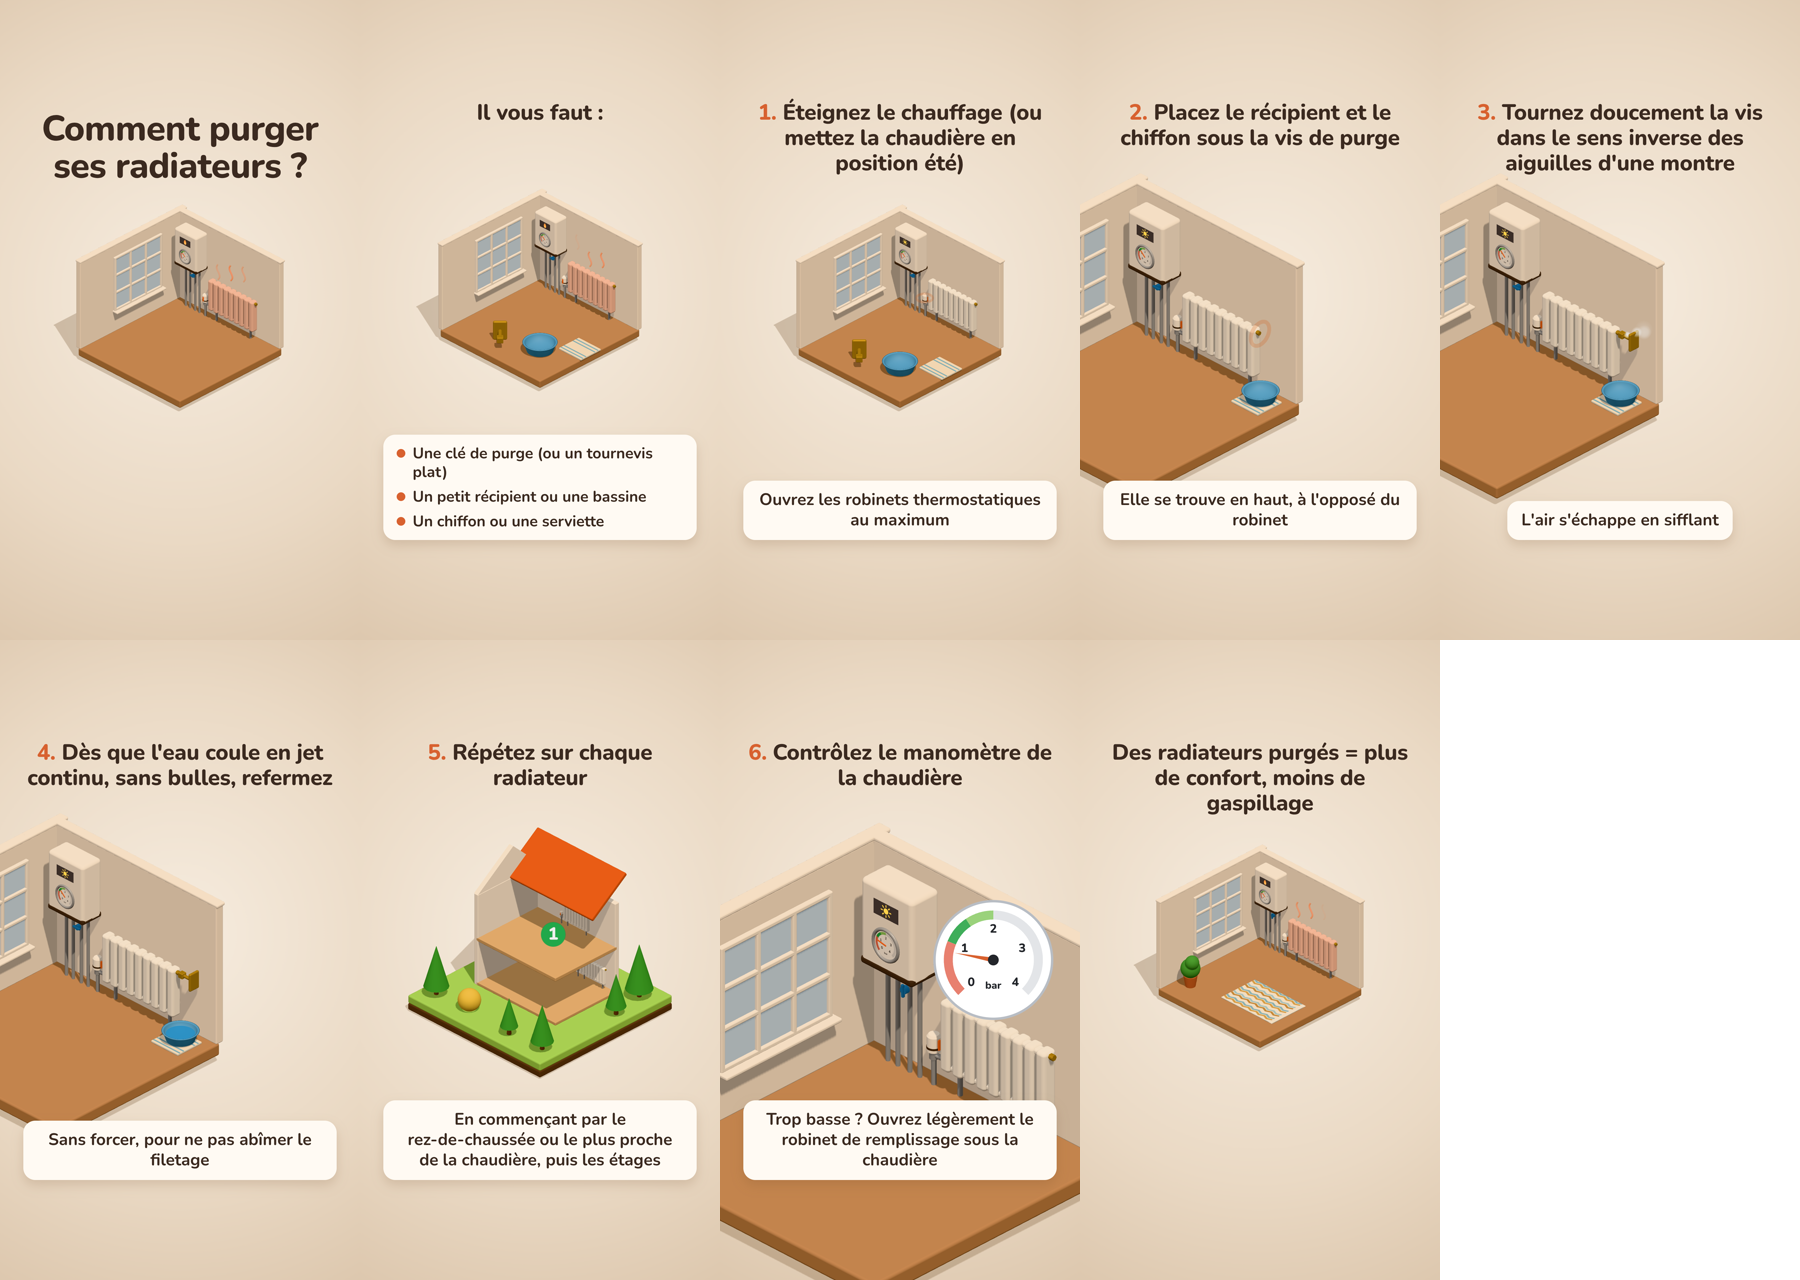
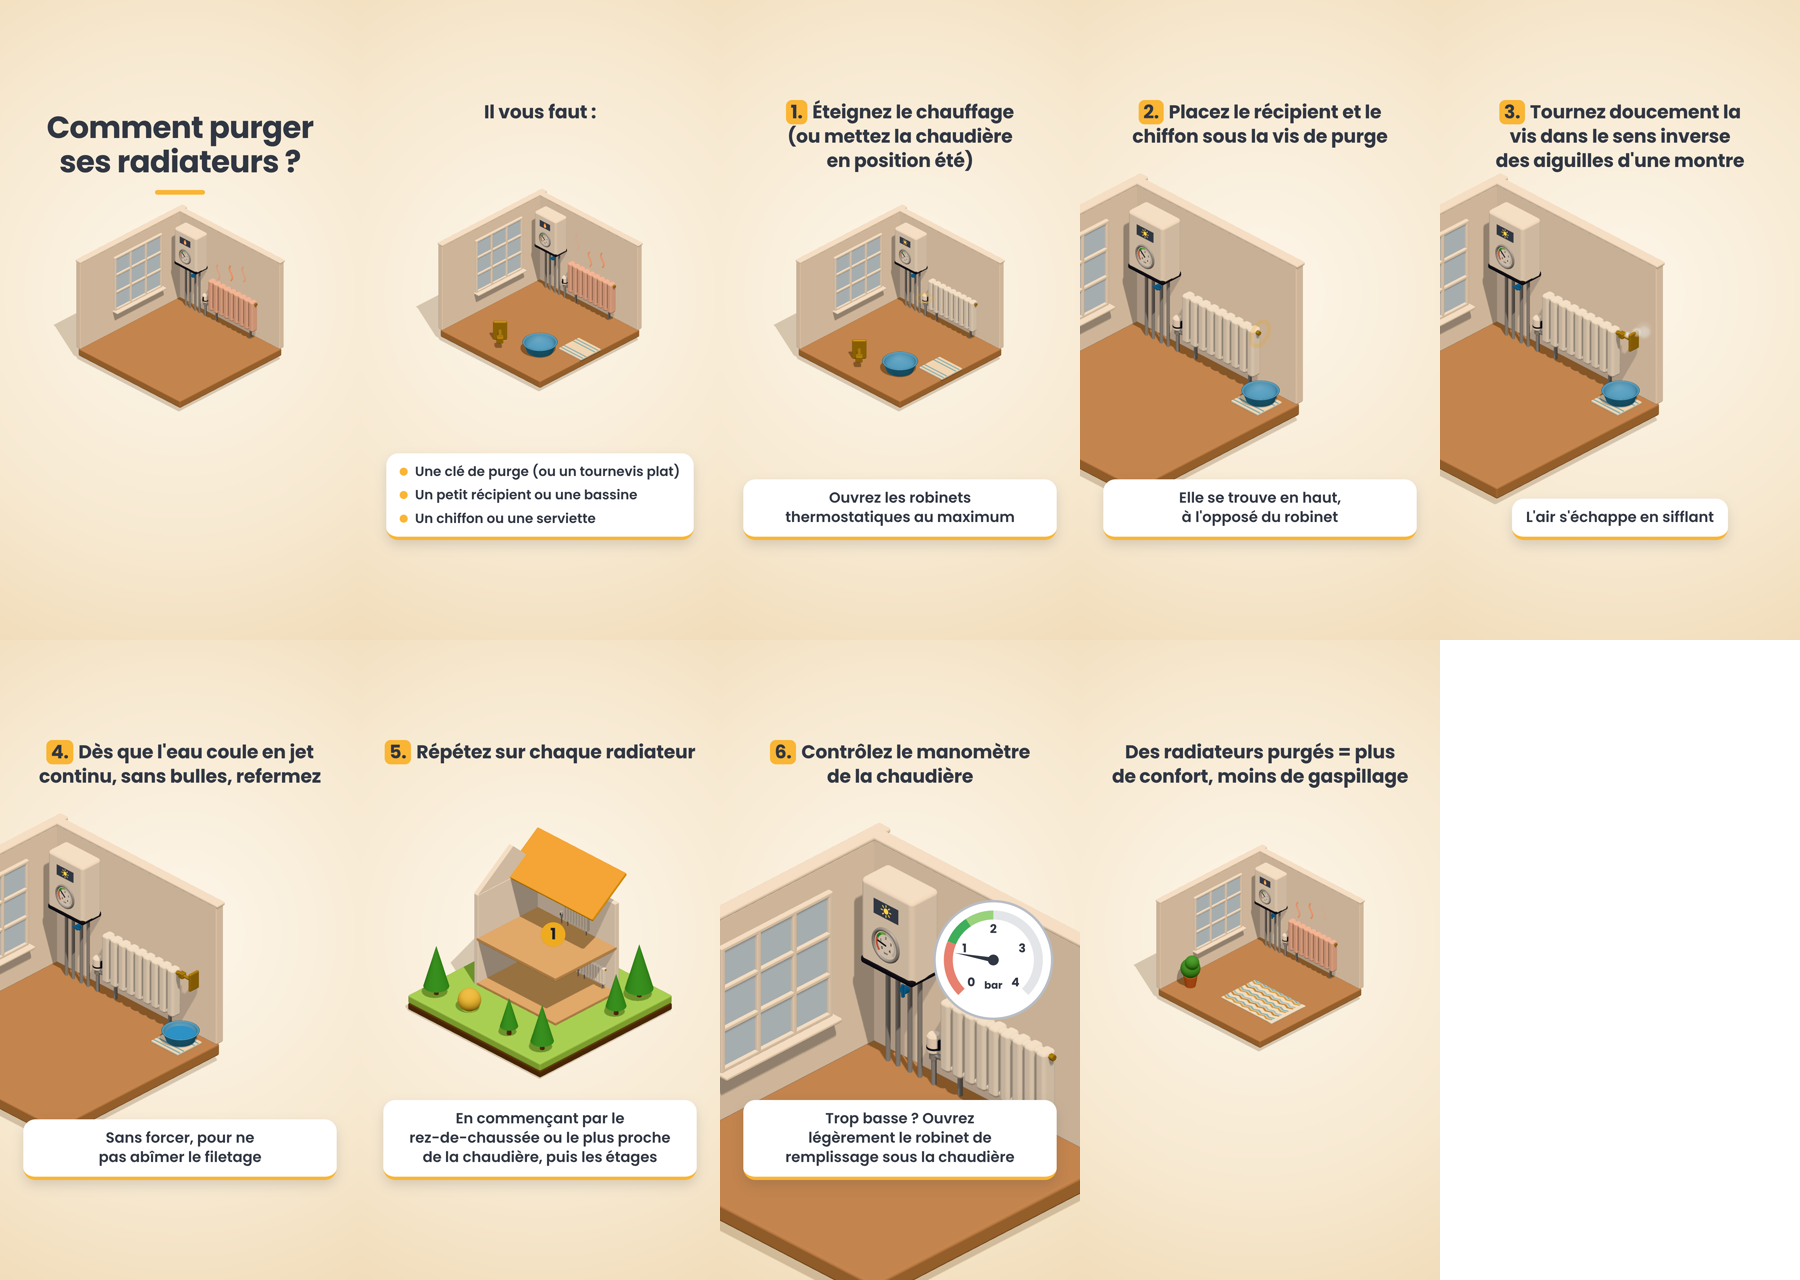
Apply Soltys brand palette and Poppins font, warmer background
Claude-Session: https://claude.ai/code/session_014wm4UfzJL86KhVQLDVdnKe

diff --git a/reel-purge-radiateurs/src/scene.js b/reel-purge-radiateurs/src/scene.js
@@ -5,7 +5,7 @@ import * as THREE from 'three';
 import { RoundedBoxGeometry } from 'three/addons/geometries/RoundedBoxGeometry.js';
 
 // La police sert aussi aux textures dessinées (manomètre, pastilles) : on l'attend avant de construire la scène.
-await Promise.all([document.fonts.load('800 64px Nunito'), document.fonts.load('700 50px Nunito')]);
+await Promise.all([document.fonts.load('700 64px Poppins'), document.fonts.load('600 50px Poppins')]);
 
 const R = window.REEL, S = R.scenes;
 const W = 1080, H = 1920;
@@ -70,11 +70,11 @@ scene.add(ground);
 const mat = (c, o = {}) => new THREE.MeshStandardMaterial({ color: c, roughness: .85, metalness: 0, ...o });
 const C = {
   wall: mat(0xfaf2e8), wallTop: mat(0xfdf8f1), floor: mat(0xb88b66), glass: mat(0xb9cddd, { roughness: .2, emissive: 0x9fb6c9, emissiveIntensity: .25 }),
-  frame: mat(0xfaf5ee), white: mat(0xfaf6f0), steel: mat(0xb8bdc4, { roughness: .45, metalness: .35 }), dark: mat(0x4a3a32),
+  frame: mat(0xfaf5ee), white: mat(0xfaf6f0), steel: mat(0xb8bdc4, { roughness: .45, metalness: .35 }), dark: mat(0x303642),
   brass: mat(0xcaa03a, { roughness: .4, metalness: .45 }), bowl: mat(0x5aa2d6, { side: THREE.DoubleSide, roughness: .6 }),
   water: mat(0x3d97df, { roughness: .15, transparent: true, opacity: .88 }), crate: mat(0xdcc7a8), crateDk: mat(0xc6ad8a),
-  grass: mat(0x9fd36a), grassDk: mat(0x8cc45a), dirt: mat(0x5b3f2c), roof: mat(0xd8612f), wood: mat(0xd2ad80), tree: mat(0x47a447),
-  trunk: mat(0x7a5236), bush: mat(0xe2c35a), pot: mat(0xc96f4a), leaf: mat(0x4f9e4b), red: mat(0xd8612f, { emissive: 0xd8612f, emissiveIntensity: .35 }),
+  grass: mat(0x9fd36a), grassDk: mat(0x8cc45a), dirt: mat(0x5b3f2c), roof: mat(0xf9b533), wood: mat(0xd2ad80), tree: mat(0x47a447),
+  trunk: mat(0x7a5236), bush: mat(0xe2c35a), pot: mat(0xc96f4a), leaf: mat(0x4f9e4b), red: mat(0x303642),
   blue: mat(0x3d8fd6),
 };
 function box(w, h, d, r, m, x = 0, y = 0, z = 0) {
@@ -169,12 +169,12 @@ function hot(t) {
 
 // chaudière murale : écran (flamme / soleil = position été), manomètre, robinet de remplissage dessous
 const flameTex = canvasTex(256, 128, (g, w, h) => {
-  g.fillStyle = '#3a2d27'; g.fillRect(0, 0, w, h);
+  g.fillStyle = '#303642'; g.fillRect(0, 0, w, h);
   g.fillStyle = '#ff9a3c'; g.beginPath(); g.moveTo(128, 18); g.bezierCurveTo(170, 60, 160, 110, 128, 112); g.bezierCurveTo(96, 110, 86, 60, 128, 18); g.fill();
   g.fillStyle = '#ffd36a'; g.beginPath(); g.moveTo(128, 60); g.bezierCurveTo(146, 82, 142, 106, 128, 106); g.bezierCurveTo(114, 106, 110, 82, 128, 60); g.fill();
 });
 const sunTex = canvasTex(256, 128, (g, w, h) => {
-  g.fillStyle = '#3a2d27'; g.fillRect(0, 0, w, h);
+  g.fillStyle = '#303642'; g.fillRect(0, 0, w, h);
   g.strokeStyle = g.fillStyle = '#ffd24a'; g.lineWidth = 9; g.lineCap = 'round';
   g.beginPath(); g.arc(128, 64, 24, 0, Math.PI * 2); g.fill();
   for (let i = 0; i < 8; i++) { const a = i * Math.PI / 4; g.beginPath(); g.moveTo(128 + Math.cos(a) * 36, 64 + Math.sin(a) * 36); g.lineTo(128 + Math.cos(a) * 50, 64 + Math.sin(a) * 50); g.stroke(); }
@@ -185,9 +185,9 @@ const gaugeTex = canvasTex(512, 512, (g, w) => {
   const ang = v => (135 + v / 4 * 270) * Math.PI / 180;   // 0 bar en bas à gauche, 4 bars en bas à droite (sens horaire)
   const arc = (a, b, col) => { g.strokeStyle = col; g.lineWidth = 46; g.beginPath(); g.arc(c, c, c - 60, ang(a), ang(b)); g.stroke(); };
   arc(0, 1, '#e8806f'); arc(1, 1.5, '#3fae5a'); arc(1.5, 2, '#9ad27b'); arc(2, 4, '#e3e5e8');
-  g.fillStyle = '#23262b'; g.font = '800 64px Nunito, sans-serif'; g.textAlign = 'center'; g.textBaseline = 'middle';
+  g.fillStyle = '#303642'; g.font = '700 64px Poppins, sans-serif'; g.textAlign = 'center'; g.textBaseline = 'middle';
   for (let v = 0; v <= 4; v++) g.fillText(String(v), c + Math.cos(ang(v)) * (c - 140), c + Math.sin(ang(v)) * (c - 140));
-  g.font = '800 46px Nunito, sans-serif'; g.fillText('bar', c, c + 150);
+  g.font = '700 46px Poppins, sans-serif'; g.fillText('bar', c, c + 150);
 });
 const boiler = grp(-1.85, 3.0, -2.5);
 {
@@ -249,7 +249,7 @@ const towelA = actor(towel, [[S[1] + 3.6, ITEMS_END]]);
 
 // flèche « sens inverse des aiguilles d'une montre », vue face à la vis
 const ccwTex = canvasTex(256, 256, (g, w) => {
-  const c = w / 2; g.strokeStyle = '#d8612f'; g.fillStyle = '#d8612f'; g.lineWidth = 22; g.lineCap = 'round';
+  const c = w / 2; g.strokeStyle = '#f2a516'; g.fillStyle = '#f2a516'; g.lineWidth = 22; g.lineCap = 'round';
   g.beginPath(); g.arc(c, c, 86, -Math.PI * .15, Math.PI * 1.25); g.stroke();
   const a = -Math.PI * .15, x = c + Math.cos(a) * 86, y = c + Math.sin(a) * 86;
   g.beginPath(); g.moveTo(x + 34, y + 8); g.lineTo(x - 26, y - 4); g.lineTo(x + 6, y - 46); g.closePath(); g.fill();
@@ -258,7 +258,7 @@ const ccw = new THREE.Sprite(new THREE.SpriteMaterial({ map: ccwTex, transparent
 scene.add(ccw);
 
 // repère pulsant (vis de purge, robinet)
-const ring = new THREE.Mesh(new THREE.TorusGeometry(.2, .03, 12, 48), new THREE.MeshBasicMaterial({ color: 0xd8612f, transparent: true, depthTest: false }));
+const ring = new THREE.Mesh(new THREE.TorusGeometry(.2, .03, 12, 48), new THREE.MeshBasicMaterial({ color: 0xf2a516, transparent: true, depthTest: false }));
 ring.renderOrder = 5; scene.add(ring);
 
 // air et eau
@@ -297,8 +297,8 @@ for (const [x, z, s] of [[2.3, -2.2, 1.1], [2.55, -.9, .8], [2.4, 2.3, .9], [-2.
 }
 actor(grp(-1.0, 0, 2.2, ball(.38, C.bush, 0, .34, 0)), HOUSE, .6);
 const badgeTex = n => canvasTex(160, 160, (g, w) => {
-  g.fillStyle = '#3fae5a'; g.beginPath(); g.arc(80, 80, 74, 0, Math.PI * 2); g.fill();
-  g.fillStyle = '#fff'; g.font = '800 104px Nunito, sans-serif'; g.textAlign = 'center'; g.textBaseline = 'middle'; g.fillText(String(n), 80, 86);
+  g.fillStyle = '#f9b533'; g.beginPath(); g.arc(80, 80, 74, 0, Math.PI * 2); g.fill();
+  g.fillStyle = '#303642'; g.font = '700 96px Poppins, sans-serif'; g.textAlign = 'center'; g.textBaseline = 'middle'; g.fillText(String(n), 80, 86);
 });
 const badges = hrads.map((h, i) => {
   const s = new THREE.Sprite(new THREE.SpriteMaterial({ map: badgeTex(i + 1), transparent: true, depthTest: false }));
@@ -349,9 +349,9 @@ const gaugeEl = document.getElementById('gauge');
   const arc = (a, b, col) => `<path d="M ${pt(a, r)} A ${r} ${r} 0 ${(b - a) / 4 * 270 > 180 ? 1 : 0} 1 ${pt(b, r)}" stroke="${col}" stroke-width="30" fill="none"/>`;
   let s = `<circle cx="200" cy="200" r="196" fill="#fff" stroke="#b8bdc4" stroke-width="8"/>`;
   s += arc(0, 1, '#e8806f') + arc(1, 1.5, '#3fae5a') + arc(1.5, 2, '#9ad27b') + arc(2, 4, '#e3e5e8');
-  for (let v = 0; v <= 4; v++) s += `<text x="${pt(v, 104).split(' ')[0]}" y="${pt(v, 104).split(' ')[1]}" font-family="Nunito" font-weight="800" font-size="40" text-anchor="middle" dominant-baseline="central" fill="#23262b">${v}</text>`;
-  s += `<text x="200" y="296" font-family="Nunito" font-weight="800" font-size="34" text-anchor="middle" fill="#23262b">bar</text>`;
-  s += `<g id="gneedle"><path d="M 192 200 L 200 70 L 208 200 Z" fill="#d8612f"/></g><circle cx="200" cy="200" r="18" fill="#23262b"/>`;
+  for (let v = 0; v <= 4; v++) s += `<text x="${pt(v, 104).split(' ')[0]}" y="${pt(v, 104).split(' ')[1]}" font-family="Poppins" font-weight="700" font-size="40" text-anchor="middle" dominant-baseline="central" fill="#303642">${v}</text>`;
+  s += `<text x="200" y="296" font-family="Poppins" font-weight="700" font-size="34" text-anchor="middle" fill="#303642">bar</text>`;
+  s += `<g id="gneedle"><path d="M 192 200 L 200 70 L 208 200 Z" fill="#303642"/></g><circle cx="200" cy="200" r="18" fill="#303642"/>`;
   gaugeEl.innerHTML = s;
 }
 const gneedle = gaugeEl.querySelector('#gneedle');
@@ -508,7 +508,7 @@ window.renderAt = renderAt;
 // Couverture : une image du film, sans les textes du film, avec le titre de couverture.
 window.renderCover = function () {
   // cadrage propre à la couverture : la pièce entière, sous le titre
-  renderAt(R.couverture.instant, { noText: true, noOverlay: true, cam: { zoom: 1.12, tx: .5, ty: 3.3, tz: .5 } });
+  renderAt(R.couverture.instant, { noText: true, noOverlay: true, cam: { zoom: 1.1, tx: .5, ty: 4.0, tz: .5 } });
   const cv = document.getElementById('cover');
   cv.style.display = 'block';
   cv.querySelector('.ct').textContent = R.couverture.texte;

diff --git a/reel-purge-radiateurs/index.html b/reel-purge-radiateurs/index.html
@@ -5,35 +5,38 @@
     <meta name="viewport" content="width=1080, height=1920" />
     <title>Purger ses radiateurs</title>
     <style>
-      @font-face { font-family: "Nunito"; font-weight: 700; src: url("assets/fonts/nunito-700.woff2") format("woff2"); font-display: block; }
-      @font-face { font-family: "Nunito"; font-weight: 800; src: url("assets/fonts/nunito-800.woff2") format("woff2"); font-display: block; }
+      /* Charte Soltys : Poppins, jaune #F9B533, gris #545454, bleu nuit #303642 */
+      @font-face { font-family: "Poppins"; font-weight: 600; src: url("assets/fonts/poppins-600.woff2") format("woff2"); font-display: block; }
+      @font-face { font-family: "Poppins"; font-weight: 700; src: url("assets/fonts/poppins-700.woff2") format("woff2"); font-display: block; }
       * { margin: 0; padding: 0; box-sizing: border-box; }
-      html, body { width: 1080px; height: 1920px; overflow: hidden; background: #e2d3c0; }
+      html, body { width: 1080px; height: 1920px; overflow: hidden; background: #f5e6cc; }
       #root {
         position: relative; width: 1080px; height: 1920px; overflow: hidden;
-        background: radial-gradient(ellipse 120% 70% at 50% 46%, #f6ecdf 0%, #ead9c4 55%, #d8c1a6 100%);
-        font-family: "Nunito", sans-serif; color: #3b2a20;
+        background: radial-gradient(ellipse 120% 70% at 50% 46%, #fdf6ea 0%, #f7e9d1 55%, #efd8b2 100%);
+        font-family: "Poppins", sans-serif; color: #303642;
       }
       #gl { position: absolute; inset: 0; width: 1080px; height: 1920px; display: block; }
       #txt { position: absolute; inset: 0; pointer-events: none; }
       .blk { position: absolute; left: 70px; right: 70px; text-align: center; display: none; text-wrap: balance; }
       .w { display: inline-block; white-space: pre; will-change: transform, opacity; }
-      .num { color: #d8612f; }
-      .titre { top: 330px; font-size: 106px; font-weight: 800; line-height: 1.06; letter-spacing: -1.5px; }
-      .haut { top: 300px; font-size: 66px; font-weight: 800; line-height: 1.15; letter-spacing: -0.5px; }
+      .num { background: #f9b533; color: #303642; border-radius: 18px; padding: 0 14px; margin-right: 4px; }
+      .titre { top: 330px; font-size: 92px; font-weight: 700; line-height: 1.12; letter-spacing: -1.5px; }
+      .titre::after, #cover .ct::after { content: ""; display: block; width: 150px; height: 14px; border-radius: 7px; background: #f9b533; margin: 34px auto 0; }
+      .haut { top: 300px; font-size: 56px; font-weight: 700; line-height: 1.3; letter-spacing: -0.5px; }
       .bas, .liste { bottom: 300px; }
       .card {
-        display: inline-block; background: #fffaf3; border-radius: 36px; padding: 26px 42px 30px;
-        box-shadow: 0 16px 34px rgba(110, 70, 40, 0.18); font-size: 50px; font-weight: 700; line-height: 1.22;
+        display: inline-block; background: #ffffff; border-radius: 36px; padding: 26px 42px 30px; color: #303642;
+        border-bottom: 10px solid #f9b533;
+        box-shadow: 0 16px 34px rgba(48, 54, 66, 0.16); font-size: 44px; font-weight: 600; line-height: 1.32;
         transform-origin: 50% 100%;
       }
-      .liste .card { text-align: left; font-size: 46px; padding: 28px 40px; }
+      .liste .card { text-align: left; font-size: 40px; padding: 28px 40px; }
       .row { display: flex; align-items: flex-start; gap: 22px; }
       .row + .row { margin-top: 18px; }
-      .dot { flex: 0 0 auto; width: 26px; height: 26px; border-radius: 50%; background: #d8612f; margin-top: 15px; }
+      .dot { flex: 0 0 auto; width: 24px; height: 24px; border-radius: 50%; background: #f9b533; margin-top: 15px; }
       /* couverture */
       #cover { position: absolute; inset: 0; display: none; }
-      #cover .ct { text-wrap: balance; position: absolute; top: 330px; left: 60px; right: 60px; text-align: center; font-size: 118px; font-weight: 800; line-height: 1.04; letter-spacing: -2px; }
+      #cover .ct { text-wrap: balance; position: absolute; top: 330px; left: 60px; right: 60px; text-align: center; font-size: 104px; font-weight: 700; line-height: 1.1; letter-spacing: -2px; }
       /* jauge agrandie (étape 6) */
       #gauge { position: absolute; left: 0; top: 0; width: 400px; height: 400px; display: none; transform-origin: 50% 50%; }
     </style>

diff --git a/reel-purge-radiateurs/README.md b/reel-purge-radiateurs/README.md
@@ -1,6 +1,6 @@
 # Reel « Comment purger ses radiateurs ? »
 
-Vidéo verticale 1080×1920, 30 i/s, 59,5 s, H.264 avec piste son vide. Version neutre : sans marque ni logo.
+Vidéo verticale 1080×1920, 30 i/s, 59,5 s, H.264 avec piste son vide. Aux couleurs et à la police de la charte Soltys, sans logo.
 La fin garde le bas de l'écran vide pour y poser un logo.
 
 ## Fichiers produits
@@ -26,15 +26,15 @@ Prérequis : Node 22+, ffmpeg et Playwright avec Chromium (déjà installés dan
 
 ```bash
 cd reel-purge-radiateurs
-npm install && npm run setup    # une seule fois : copie three.js et la police Nunito dans assets/
+npm install && npm run setup    # une seule fois : copie three.js et la police Poppins dans assets/
 npm run preview                 # une image par scène → renders/apercu/
 npm run cover                   # la couverture → renders/couverture.png
 npm run render                  # la vidéo → renders/purger-radiateurs.mp4 (quelques minutes)
 node scripts/render.mjs --at 27.2   # une seule image à 27,2 s → renders/image-27.2.png
 ```
 
-La page `index.html` est aussi une composition HyperFrames : elle répond à l'événement `hf-seek`. Elle peut donc
-être rendue avec `npx --yes hyperframes@0.8.71 render --fps 30 -o renders/purger-radiateurs.mp4` depuis ce dossier.
+La page `index.html` suit aussi le format d'une composition HyperFrames (attributs `data-*`, événement `hf-seek`).
+Le rendu livré a été fait avec `scripts/render.mjs` ; le rendu par HyperFrames n'a pas été testé.
 
 ## Ajouter le logo
 
@@ -45,4 +45,6 @@ dans votre logiciel de montage, ou ajoutez un `<img>` dans `index.html`.
 
 Il s'inspire des deux vidéos de référence : maquettes 3D isométriques mates qui se construisent pièce par pièce, avec
 un rebond, des ombres douces et un fond uni. Chaque décor se replie en cube puis le suivant s'en déplie.
-Palette chaude : fond sable, murs crème, parquet chêne, accents terracotta. Police : Nunito.
+Couleurs et police de la charte Soltys : jaune `#F9B533` (numéros d'étape, soulignés, repères), bleu nuit `#303642`
+(textes), sur un fond crème chaud. Police : Poppins (la Bariol Light est sous licence payante, elle n'est pas
+incluse). Aucun logo : à ajouter vous-même, sur fond clair en version couleur, avec la baseline « par Logista Hometech ».
